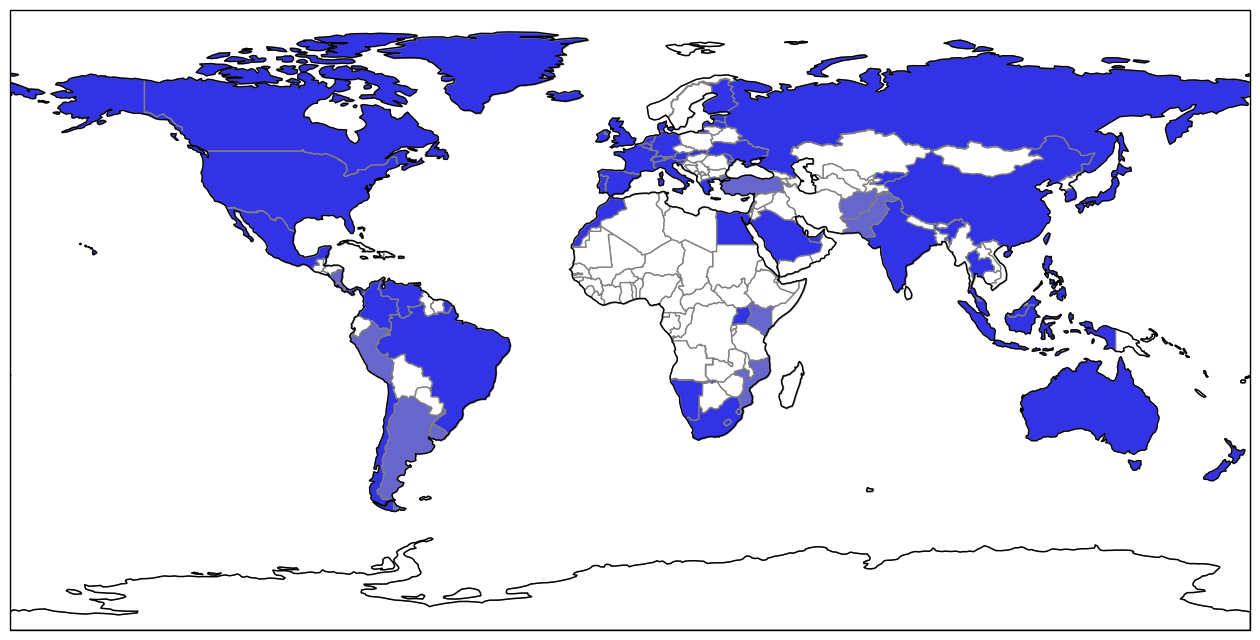
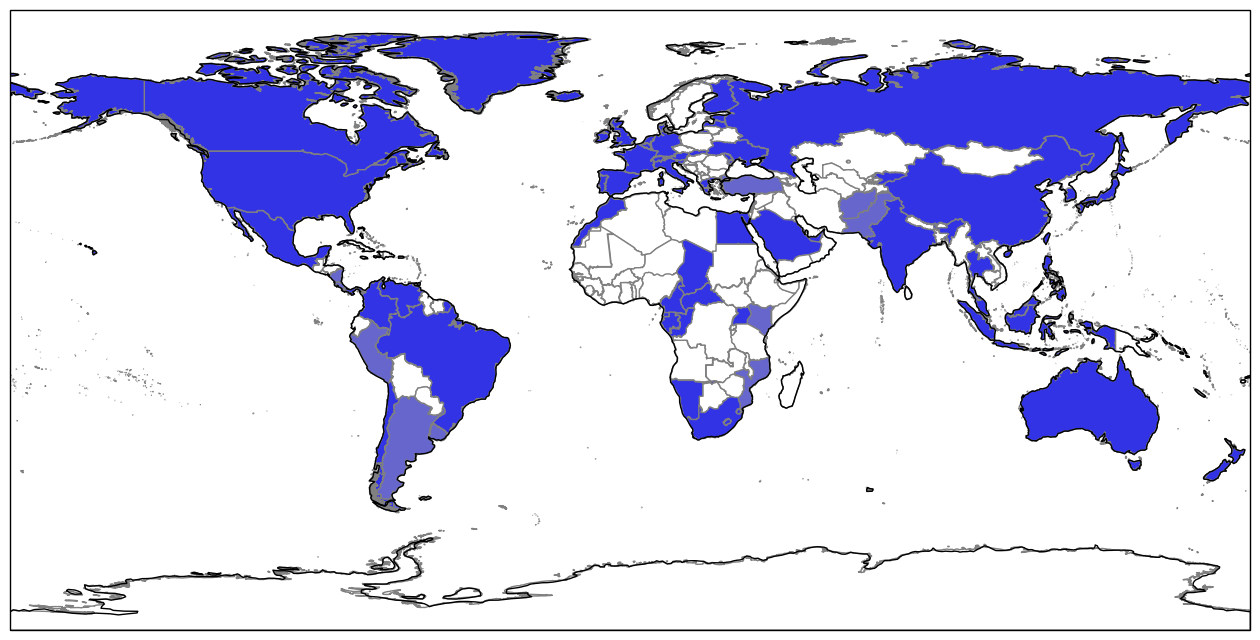
Add the Central African CFA untion
Thibault came back from Gabon and France with lots of money for me!
Thanks, Thibault!

diff --git a/map.py b/map.py
@@ -103,6 +103,12 @@ def correct_for_mapping(countries):
     Dutch in 1949.  I count the Dutch East Indies currency that I have as
     obsolete Indonesian currency for the purpose of mapping.
 
+    The CFA administers two monetary unions in central and western Africa,
+    both of which use CFA francs that trade at 1:1, but are not legal tender
+    in each other's areas.  At the time of writing, I only have Central
+    African CFA francs, so for now I'm only implementing an exception for
+    them.
+
     The Common Monetary Area of southern Africa is a Eurozone-like entity where
     multiple countries share a currency.  In this case, they share the South
     African rand.  Namibia is no longer a member of the CMA, but the rand is
@@ -127,6 +133,10 @@ def correct_for_mapping(countries):
     if "Dutch East Indies" in countries:
         countries.pop("Dutch East Indies")
         countries.setdefault("Indonesia", 0)
+
+    if constants.CEMAC_LONG_NAME in countries:
+        for country in constants.CEMAC_COUNTRIES:
+            countries[country] = countries[constants.CEMAC_LONG_NAME]
 
     if "South Africa" in countries:
         for country in constants.COMMON_MONETARY_AREA_COUNTRIES:

diff --git a/constants.py b/constants.py
@@ -23,6 +23,15 @@ EUROZONE_COUNTRIES = set([
     "Slovenia",
     "Spain",
 ])
+CEMAC_LONG_NAME = u"Communaut\xe9 \xc9conomique et Mon\xe9taire de l'Afrique Centrale"
+CEMAC_COUNTRIES = set([
+    "Cameroon",
+    "Central African Republic",
+    "Chad",
+    "Republic of Congo",
+    "Equatorial Guinea",
+    "Gabon",
+])
 COMMON_MONETARY_AREA_COUNTRIES = set([
     "South Africa",
     "Swaziland",

diff --git a/README.rst b/README.rst
@@ -63,7 +63,17 @@ I wrote it down as 2000 because that was the first year that they printed 2 reai
 
 Britain
 '''''''
-See `UK`_
+See `UK`_.
+
+CEMAC
+'''''
+The Communauté Économique et Monétaire de l'Afrique Centrale is a group of six countries administered by Coopération financière en Afrique (CFA).
+The six countries are Cameroon, Central African Republic, Chad, Republic of the Congo, Equatorial Guinea and Gabon, but the Republic of Congo apparently *de facto* uses USD.
+I went ahead and colored all of them as dark blue because I have both the official and unofficial currencies of Republic of the Congo.
+
+Note that CFA also administers a separate group of 8 countries that form a western African monetary union, the Union Économique et Monétaire Ouest Africaine (UEMOA), and they also use a CFA franc.
+Both are in fact called CFA francs and they trade at a 1:1 ratio, which leads to some confusion.
+I've called the Central African CFA francs "CEMAC" francs, and if I get any of the West African CFA francs, I'll call them UEMOA francs.
 
 Colombia
 ''''''''
@@ -185,6 +195,10 @@ Philippines
 '''''''''''
 From 1942-1945, Japan occupied the Philippines and distributed fiat banknotes.
 I have some, but these were considered illegal tender immediately following WWII.
+
+Republic of the Congo
+'''''''''''''''''''''
+See `CEMAC`_.
 
 Russia
 ''''''
